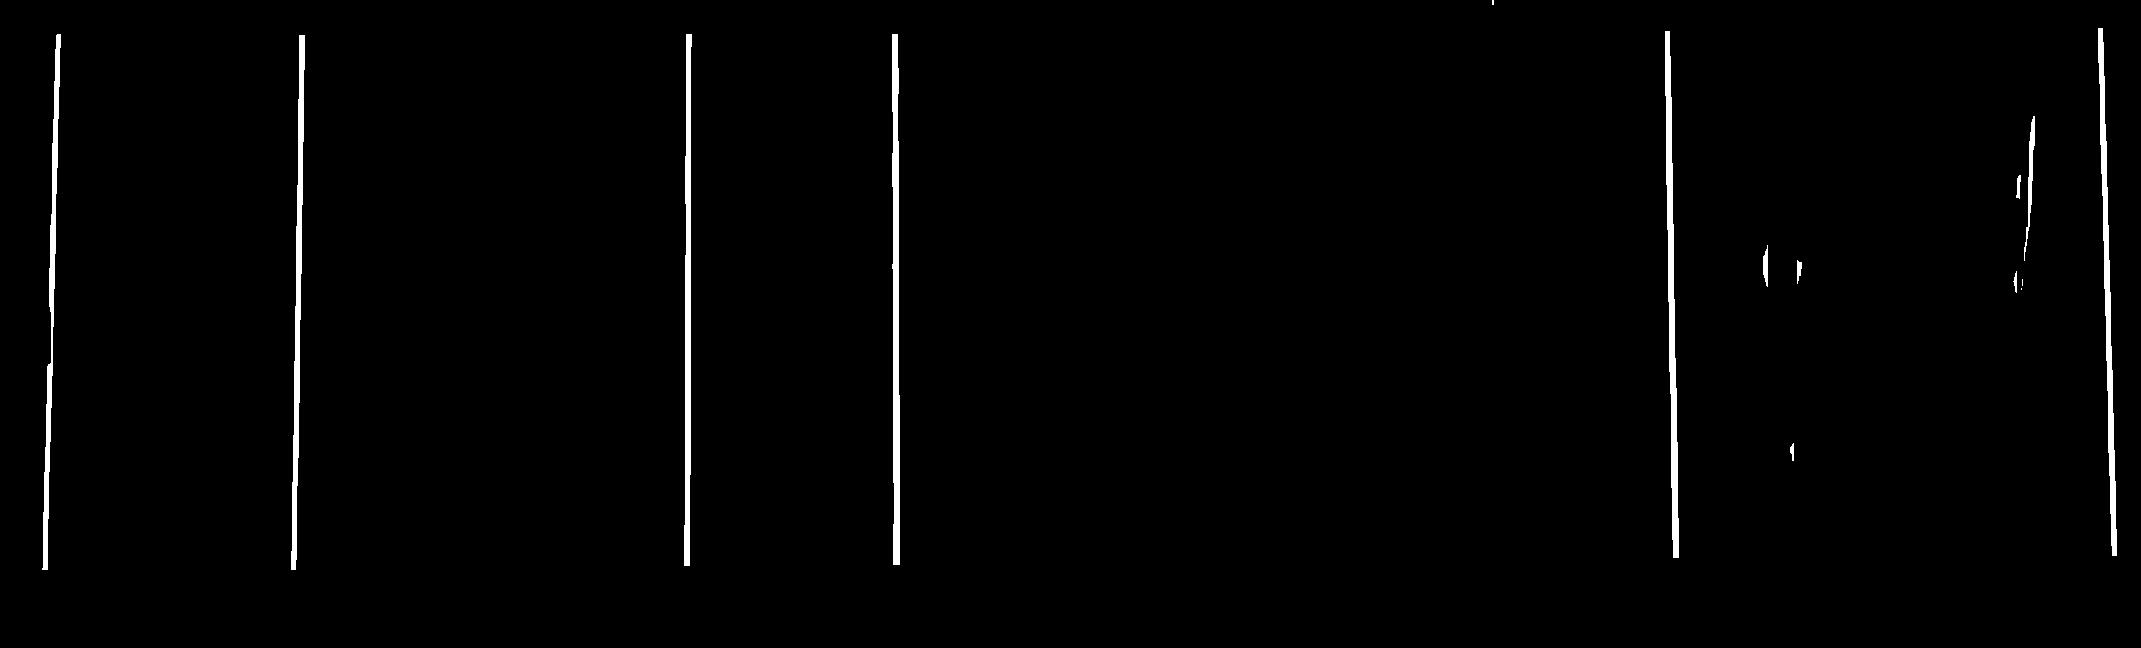
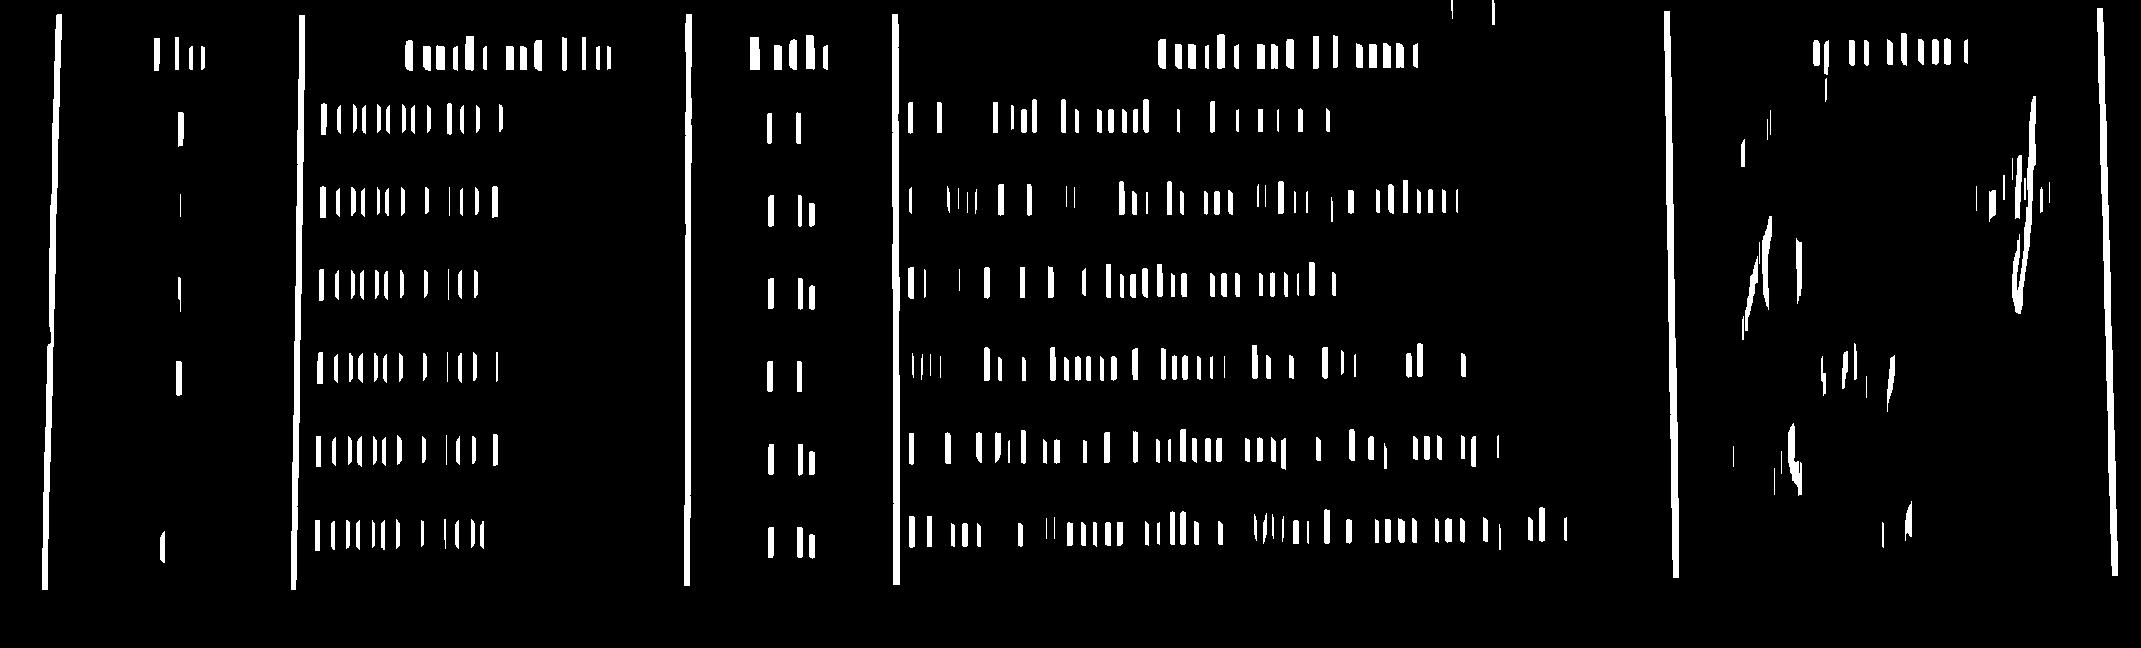
erosion and dilation process

diff --git a/src/TableExtractor.py b/src/TableExtractor.py
@@ -54,20 +54,27 @@ class TableExtractor:
         vertical_kernel = rectangle(5, 1)
         dilated_image_array = image_array.copy()  # Make a copy to preserve original
         for _ in range(iterations):
-            dilated_image_array = binary_erosion(
+            dilated_image_array = binary_dilation(
                 dilated_image_array, vertical_kernel)
         self.v_dilated_image = Image.fromarray(dilated_image_array)
 
+    # extracting horizontal lines
     def h_erosion_image(self, iterations=5):
-        image_array = np.array(self.v_dilated_image)
+        image_array = np.array(self.inverted_image)
         horizontal_kernel = rectangle(1, 5)
-        eroded_image_array = binary_erosion(image_array, horizontal_kernel)
+        eroded_image_array = image_array.copy()  # Make a copy to preserve original
+        for _ in range(iterations):
+            eroded_image_array = binary_erosion(
+                eroded_image_array, horizontal_kernel)
         self.h_eroded_image = Image.fromarray(eroded_image_array)
 
     def h_dilation_image(self, iterations=5):
         image_array = np.array(self.h_eroded_image)
         horizontal_kernel = rectangle(1, 5)
-        dilated_image_array = binary_dilation(image_array, horizontal_kernel)
+        dilated_image_array = image_array.copy()  # Make a copy to preserve original
+        for _ in range(iterations):
+            dilated_image_array = binary_dilation(
+                dilated_image_array, horizontal_kernel)
         self.h_dilated_image = Image.fromarray(dilated_image_array)
 
     '''
@@ -111,10 +118,10 @@ class TableExtractor:
             "./uploads/5_vertical_dilated.jpg", self.v_dilated_image)
         self.h_erosion_image(iterations=5)
         self.store_process_image(
-            "./uploads/6_horizontal_eroded.jpg", self.v_eroded_image)
+            "./uploads/6_horizontal_eroded.jpg", self.h_eroded_image)
         self.h_dilation_image(iterations=5)
         self.store_process_image(
-            "./uploads/7_horizontal_dilated.jpg", self.v_dilated_image)        # self.dilate_image()
+            "./uploads/7_horizontal_dilated.jpg", self.h_dilated_image)        # self.dilate_image()
         # self.store_process_image(
     #     "./uploads/_dialateded.jpg", self.dilated_image)
         self.find_contours()
